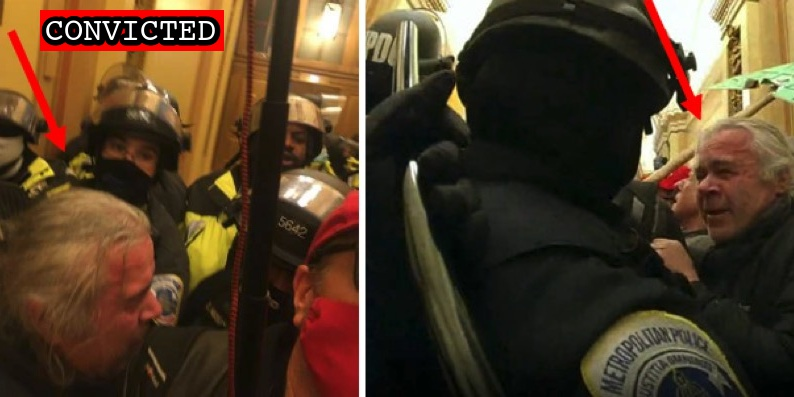
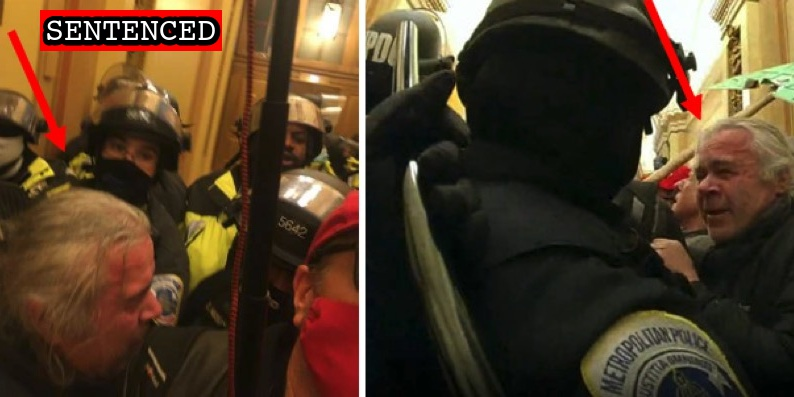
Latest sentence

Changed region(s): [[0.0302, 0.0302, 0.2418, 0.1209], [0.272, 0.0302, 0.3023, 0.1209]]

diff --git a/docs/_suspects/clifford-meteer.md b/docs/_suspects/clifford-meteer.md
@@ -4,18 +4,18 @@ lastName: Meteer
 hashtag: CliffordMeteer
 aka:
 residence: Tennessee
-status: Convicted
+status: Sentenced
 date: 2021-08-04
 charged: 2021-08-04
 indicted:
 convicted: 2022-01-13
 acquitted:
-sentenced:
+sentenced: 2022-04-21
 dismissed:
 deceased:
 plea_hearing: 2022-01-13
 trial_date:
-sentencing:
+sentencing: 2022-04-21
 age: 66
 occupation:
 affiliations:
@@ -36,12 +36,16 @@ published: true
 caseNumber: 1:21-mj-553
 videos:
 charges:
-- code: 40 USC § 5104(e)(2)(G)
-  title: Parading, demonstrating or picketing in a Capitol building
-  url: https://www.law.cornell.edu/uscode/text/40/5104
-  felony: false
+  - code: 40 USC § 5104(e)(2)(G)
+    title: Parading, demonstrating or picketing in a Capitol building
+    url: https://www.law.cornell.edu/uscode/text/40/5104
+    felony: false
 sentence:
+  - 60 days in prison
+  - 3 years probation
+  - $500 restitution
 ---
+
 - [News Report](https://www.wbir.com/article/news/local/feds-knoxville-man-illegally-entered-us-capitol-during-jan-6-riot-carrying-stop-the-steal-sign/51-dd6de1e7-b014-4348-a1e1-89dc6e3c31e8)
 - [Statement of Facts](https://www.justice.gov/usao-dc/case-multi-defendant/file/1423161/download)
 - [Information](https://extremism.gwu.edu/sites/g/files/zaxdzs2191/f/Clifford%20James%20Meteer%20Information.pdf)

diff --git a/docs/_suspects/blas-santillan.md b/docs/_suspects/blas-santillan.md
@@ -12,7 +12,7 @@ convicted:
 sentenced:
 dismissed:
 deceased:
-plea_hearing:
+plea_hearing: 2022-05-17
 sentencing:
 age:
 occupation:
@@ -25,7 +25,7 @@ courtroom:
 courthouse:
 raid:
 perpwalk:
-quote: 'It seems like you’re that weak, because I’m the only one that was willing to do something! I’m the only one that was willing to kick that door! Who else is willing to storm in there? No one!'
+quote: "It seems like you’re that weak, because I’m the only one that was willing to do something! I’m the only one that was willing to kick that door! Who else is willing to storm in there? No one!"
 title: Blas Santillan charged on August 10, 2021
 description: Click for latest case details. Suspects innocent until proven guilty.
 author: seditiontrack
@@ -36,5 +36,6 @@ videos:
 charges:
 sentence:
 ---
+
 - [News Report](https://www.11alive.com/article/news/crime/georgia-man-arrested-blas-santillan-capitol-riots/85-30452bf1-b52b-4e1c-bc8d-f50609749e23)
 - [Statement of Facts](https://www.justice.gov/usao-dc/case-multi-defendant/file/1428516/download)

diff --git a/docs/_suspects/anthime-gionet.md b/docs/_suspects/anthime-gionet.md
@@ -12,11 +12,11 @@ convicted:
 sentenced:
 dismissed:
 deceased:
-plea_hearing:
+plea_hearing: 2022-05-11
 sentencing:
 age: 33
 occupation:
-affiliations:
+affiliations: Groypers
 jurisdiction: Federal
 image: /images/preview/023.png
 suspect: 023.png
